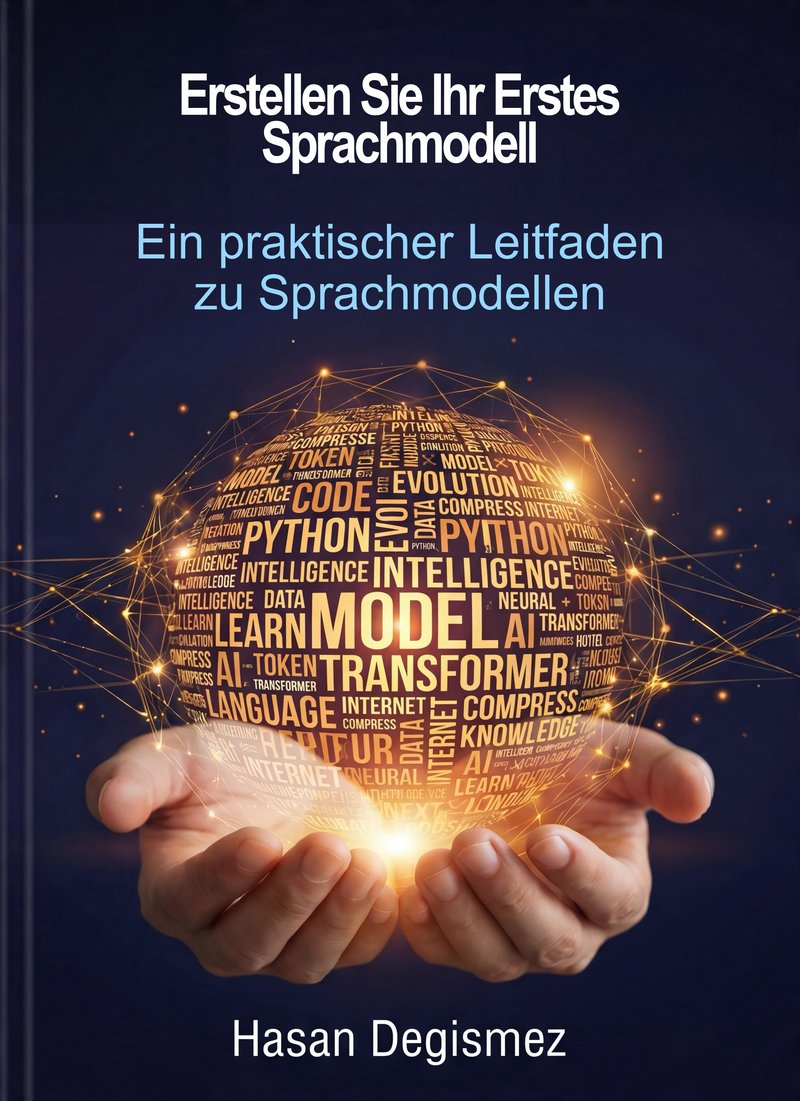
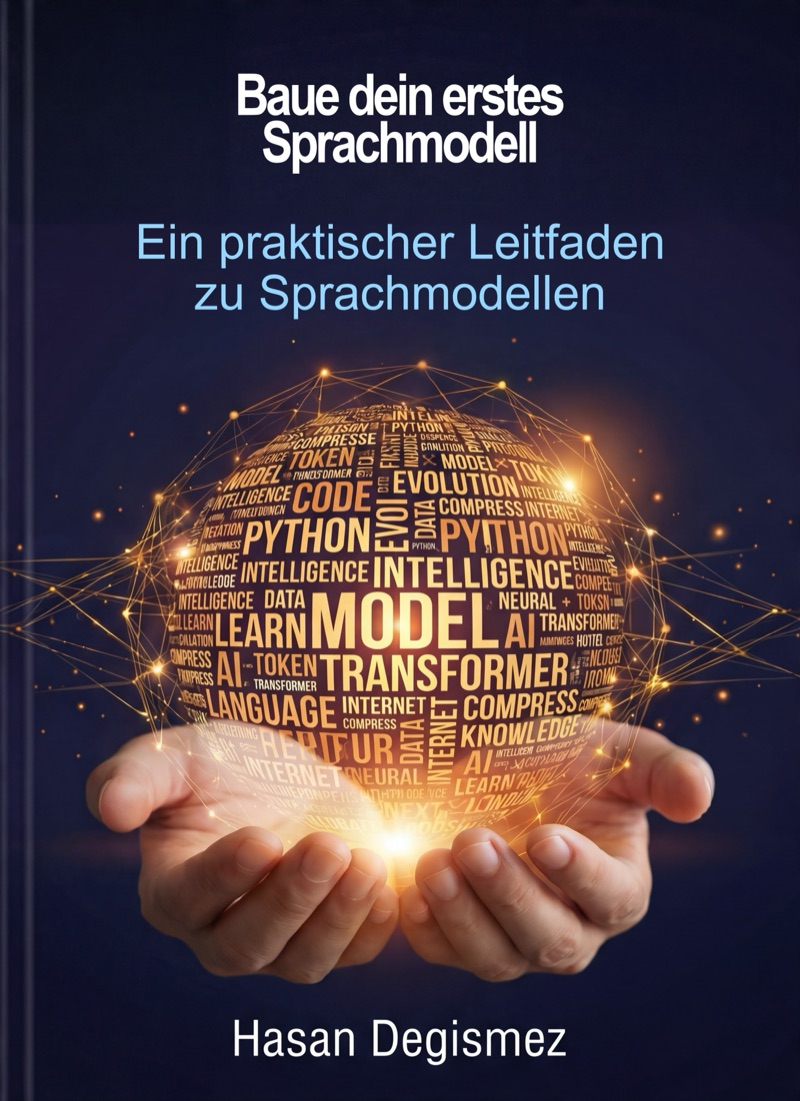
Add Greek edition to the book website

diff --git a/index.html b/index.html
@@ -4,13 +4,13 @@
     <meta charset="UTF-8">
     <meta name="viewport" content="width=device-width, initial-scale=1.0">
     <title>Build Your First LLM - A Hands-On Guide to Language Models</title>
-    <meta name="description" content="Learn to build language models from scratch with this beginner-friendly guide. Available in English, Turkish, German, and Russian.">
+    <meta name="description" content="Build and train a small Transformer from scratch. Available in English, Turkish, German, Russian, and Greek.">
     <meta name="theme-color" content="#0a1628">
     <link rel="canonical" href="https://llm.degismez.com/">
 
     <!-- Open Graph -->
     <meta property="og:title" content="Build Your First LLM">
-    <meta property="og:description" content="A Hands-On Guide to Language Models. Learn to build LLMs from scratch. Perfect for beginners.">
+    <meta property="og:description" content="Build and train a small Transformer from scratch. Available in English, Turkish, German, Russian, and Greek.">
     <meta property="og:image" content="https://llm.degismez.com/assets/covers/en-cover.jpg">
     <meta property="og:image:width" content="800">
     <meta property="og:image:height" content="1101">
@@ -21,7 +21,7 @@
     <!-- Twitter Card -->
     <meta name="twitter:card" content="summary_large_image">
     <meta name="twitter:title" content="Build Your First LLM">
-    <meta name="twitter:description" content="A Hands-On Guide to Language Models. Learn to build LLMs from scratch.">
+    <meta name="twitter:description" content="Build and train a small Transformer from scratch. Available in English, Turkish, German, Russian, and Greek.">
     <meta name="twitter:image" content="https://llm.degismez.com/assets/covers/en-cover.jpg">
     <meta name="twitter:creator" content="@hasandz">
 
@@ -127,8 +127,8 @@
                     A Hands-On Guide to Language Models
                 </p>
                 <p class="text-gray-300 text-lg mb-8 max-w-lg">
-                    Learn to build language models from scratch. Perfect for beginners
-                    with no prior machine learning experience.
+                    Build and train a small Transformer from scratch with Python and PyTorch.
+                    Chapters 5–18 include companion notebooks for Colab or local use.
                 </p>
 
                 <!-- Purchase Buttons -->
@@ -226,8 +226,7 @@
                 Available in Multiple Languages
             </h2>
             <p class="text-gray-400 text-center mb-12 max-w-2xl mx-auto">
-                The book has been translated to reach readers worldwide.
-                Each edition is carefully localized.
+                Read the original English edition or choose the Turkish, German, Russian, or Greek translation.
             </p>
 
             <!-- 2-Column Grid -->
@@ -247,8 +246,8 @@
                         <p class="text-gray-500 text-sm mb-3">
                             By: <span class="text-gray-300">Hasan Degismez</span>
                         </p>
-                        <p class="text-gray-400 text-sm italic mb-4">
-                            "The best beginner-friendly guide to LLMs I've ever read."
+                        <p class="text-gray-400 text-sm mb-4">
+                            Build a small Transformer from scratch, train it on Shakespeare, and test a local API.
                         </p>
                         <div class="flex flex-wrap gap-2 justify-center">
                             <a href="https://leanpub.com/FirstLLM/" class="text-sm bg-book-orange text-book-dark px-3 py-2
@@ -286,12 +285,12 @@
                          alt="German Edition Cover"
                          class="translation-cover w-48 h-auto rounded-lg flex-shrink-0 -mt-14 mb-5">
                     <div class="flex-1">
-                        <h3 class="text-xl font-bold text-white mb-1">
-                            Erstellen Sie Ihr Erstes Sprachmodell
+                        <h3 lang="de" class="text-xl font-bold text-white mb-1">
+                            Baue dein erstes Sprachmodell
                         </h3>
                         <p class="text-book-teal text-sm mb-2">🇩🇪 German Edition</p>
-                        <p class="text-gray-400 text-sm italic mb-4">
-                            "Endlich ein Buch, das KI verständlich erklärt!"
+                        <p lang="de" class="text-gray-400 text-sm mb-4">
+                            Baue einen kleinen Transformer, trainiere ihn mit Shakespeare-Texten und teste eine lokale API.
                         </p>
                         <div class="flex flex-wrap gap-2 justify-center">
                             <a href="https://leanpub.com/FirstLLM-German" class="text-sm bg-book-orange text-book-dark px-3 py-2
@@ -329,12 +328,12 @@
                          alt="Russian Edition Cover"
                          class="translation-cover w-48 h-auto rounded-lg flex-shrink-0 -mt-14 mb-5">
                     <div class="flex-1">
-                        <h3 class="text-xl font-bold text-white mb-1">
-                            Создайте Свою Первую Языковую Модель
+                        <h3 lang="ru" class="text-xl font-bold text-white mb-1">
+                            Создайте свою первую языковую модель
                         </h3>
                         <p class="text-book-teal text-sm mb-2">🇷🇺 Russian Edition</p>
-                        <p class="text-gray-400 text-sm italic mb-4">
-                            "Лучшее введение в языковые модели для начинающих."
+                        <p lang="ru" class="text-gray-400 text-sm mb-4">
+                            Соберите небольшой Трансформер, обучите его на текстах Шекспира и протестируйте локальный API.
                         </p>
                         <div class="flex flex-wrap gap-2 justify-center">
                             <a href="https://leanpub.com/FirstLLM-Russian" class="text-sm bg-book-orange text-book-dark px-3 py-2
@@ -372,12 +371,12 @@
                          alt="Turkish Edition Cover"
                          class="translation-cover w-48 h-auto rounded-lg flex-shrink-0 -mt-14 mb-5">
                     <div class="flex-1">
-                        <h3 class="text-xl font-bold text-white mb-1">
-                            Ilk Dil Modelinizi Olusturun
+                        <h3 lang="tr" class="text-xl font-bold text-white mb-1">
+                            İlk Dil Modelinizi Oluşturun
                         </h3>
                         <p class="text-book-teal text-sm mb-2">🇹🇷 Turkish Edition</p>
-                        <p class="text-gray-400 text-sm italic mb-4">
-                            "Yapay zeka öğrenmek isteyenler için mükemmel bir başlangıç."
+                        <p lang="tr" class="text-gray-400 text-sm mb-4">
+                            Küçük bir Transformer kur, Shakespeare metinleriyle eğit ve yerel bir API’yi test et.
                         </p>
                         <div class="flex flex-wrap gap-2 justify-center">
                             <a href="https://leanpub.com/FirstLLM-Turkish" class="text-sm bg-book-orange text-book-dark px-3 py-2
@@ -404,6 +403,35 @@
                                 </svg>
                                 Paperback
                             </span>
+                        </div>
+                    </div>
+                </div>
+
+                <!-- Greek Edition -->
+                <div class="translation-card bg-book-darker p-6 pt-8 rounded-xl border border-gray-800
+                            flex flex-col items-center text-center">
+                    <img src="assets/covers/el-cover.jpg"
+                         alt="Greek Edition Cover"
+                         width="800" height="1101" loading="lazy"
+                         class="translation-cover w-48 h-auto rounded-lg flex-shrink-0 -mt-14 mb-5">
+                    <div class="flex-1">
+                        <h3 lang="el" class="text-xl font-bold text-white mb-1">
+                            Φτιάξε το πρώτο σου μεγάλο γλωσσικό μοντέλο
+                        </h3>
+                        <p class="text-book-teal text-sm mb-2">🇬🇷 Greek Edition</p>
+                        <p lang="el" class="text-gray-400 text-sm mb-4">
+                            Φτιάξε έναν μικρό Transformer, εκπαίδευσέ τον σε κείμενα του Σαίξπηρ και δοκίμασε ένα τοπικό API.
+                        </p>
+                        <div class="flex flex-wrap gap-2 justify-center">
+                            <a href="https://leanpub.com/FirstLLM-Greek" class="text-sm bg-book-orange text-book-dark px-3 py-2
+                                              rounded font-semibold hover:bg-book-orange-light transition
+                                              inline-flex items-center gap-1.5">
+                                <svg aria-hidden="true" class="w-4 h-4" fill="none" stroke="currentColor" viewBox="0 0 24 24">
+                                    <path stroke-linecap="round" stroke-linejoin="round" stroke-width="2" d="M12 6.253v13m0-13C10.832 5.477 9.246 5 7.5 5S4.168 5.477 3 6.253v13C4.168 18.477 5.754 18 7.5 18s3.332.477 4.5 1.253m0-13C13.168 5.477 14.754 5 16.5 5c1.747 0 3.332.477 4.5 1.253v13C19.832 18.477 18.247 18 16.5 18c-1.746 0-3.332.477-4.5 1.253"/>
+                                </svg>
+                                Leanpub
+                            </a>
+                            <span class="text-sm text-gray-400 px-3 py-2">PDF and EPUB</span>
                         </div>
                     </div>
                 </div>

diff --git a/README.md b/README.md
@@ -5,7 +5,7 @@ Landing page for the book "Build Your First LLM" published at [llm.degismez.com]
 ## Local Development
 
 ```bash
-cd web
+# From this repository’s root:
 python3 -m http.server 8000
 # Open http://localhost:8000
 ```
